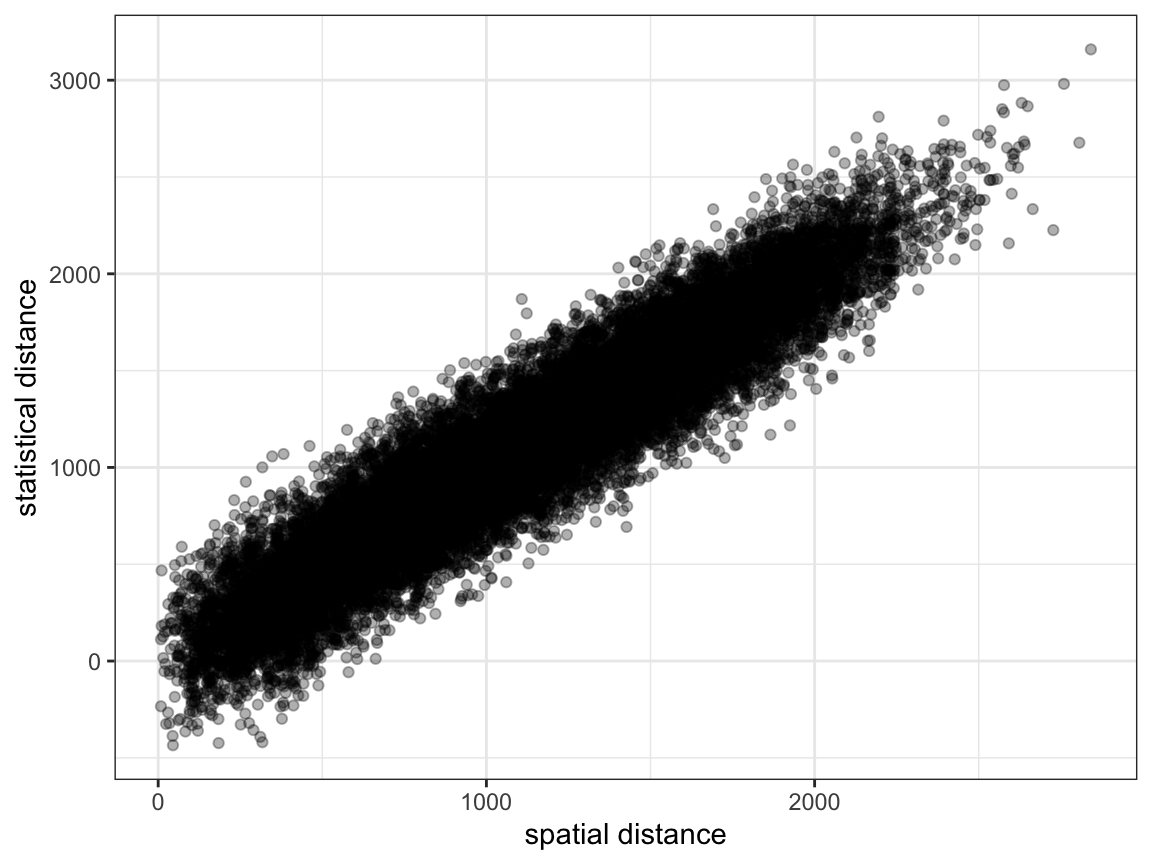
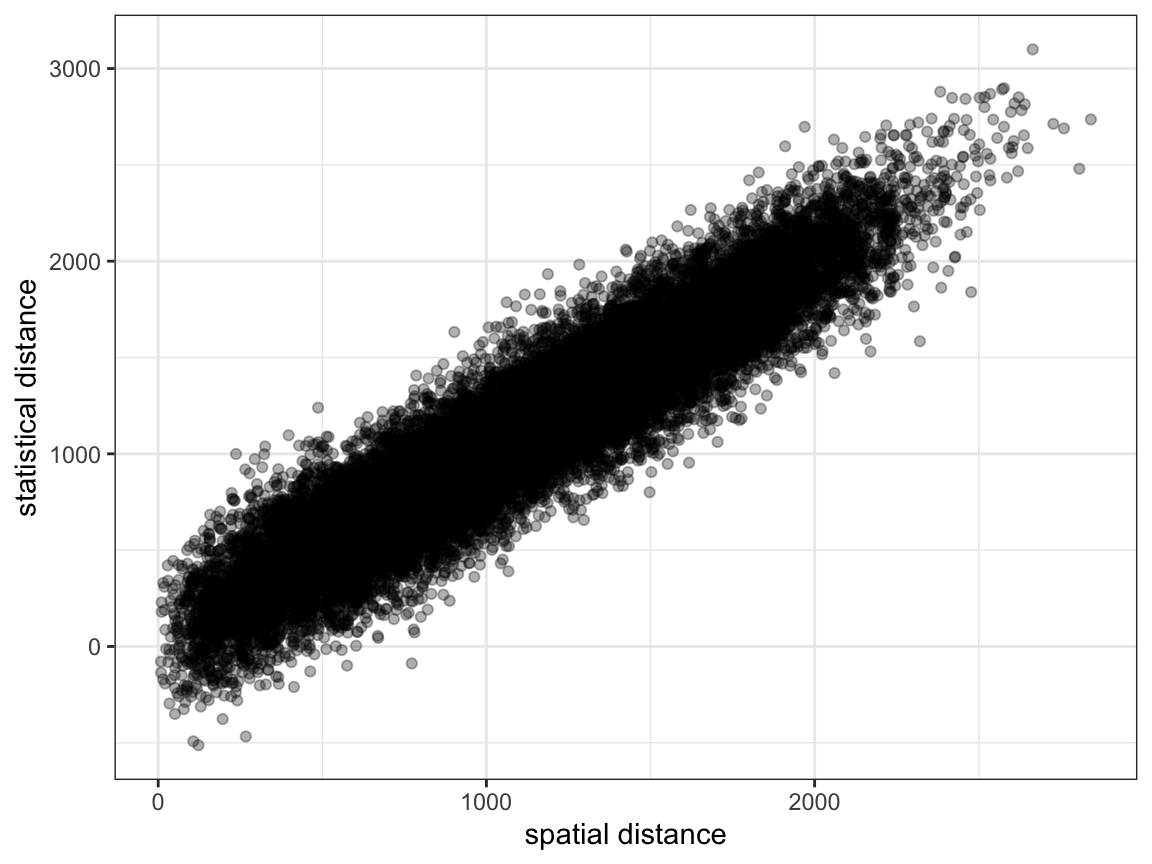
fixed bug in get_barrier_intersect() that caused error when intersecting barrier multiple times. Added test to check for this. Some more assert() checks on plotting scripts

diff --git a/docs/articles/range_limited_analysis.html b/docs/articles/range_limited_analysis.html
@@ -82,9 +82,9 @@
       <h1 data-toc-skip>Range-limited analysis</h1>
                         <h4 class="author">Bob Verity and Keith Fraser</h4>
             
-            <h4 class="date">2020-09-25</h4>
+            <h4 class="date">2020-10-18</h4>
       
-      <small class="dont-index">Source: <a href="https://github.com/username/mrc-ide/blob/master/vignettes/range_limited_analysis.Rmd"><code>vignettes/range_limited_analysis.Rmd</code></a></small>
+      <small class="dont-index">Source: <a href="https://github.com/mrc-ide/PlasmoMAPI/blob/master/vignettes/range_limited_analysis.Rmd"><code>vignettes/range_limited_analysis.Rmd</code></a></small>
       <div class="hidden name"><code>range_limited_analysis.Rmd</code></div>
 
     </div>
@@ -120,17 +120,14 @@ p &lt;- pm_project() %&gt;%
 <span class="co"># plot map with barriers</span>
 <span class="fu"><a href="../reference/plot_map.html">plot_map</a></span>(<span class="no">p</span>, <span class="kw">poly_list</span> <span class="kw">=</span> <span class="no">barrier_list</span>)</pre></body></html></div>
 <p><img src="range_limited_analysis_files/figure-html/unnamed-chunk-4-1.png" width="576"></p>
-<p>The argument <code>max_barrier_range</code> in <code><a href="../reference/get_barrier_intersect.html">get_barrier_intersect()</a></code> allows us to define a spatial distance beyond which the barrier penalty does not apply, for example if <code>max_barrier_range = 100</code> and two sampling locations are either side of the barrier and separated by 110km then the barrier effectively does not exist between these locations. We will use this mtehod to simulate pairwise genetic distances between sampling locations, this time on the [-Inf,Inf] interval rather than the [0,1] interval just for a change.</p>
+<p>The argument <code>max_barrier_range</code> in <code><a href="../reference/get_barrier_intersect.html">get_barrier_intersect()</a></code> allows us to define a spatial distance beyond which the barrier penalty does not apply, for example if <code>max_barrier_range = 100</code> and two sampling locations are either side of the barrier and separated by 101km then the barrier effectively does not exist between these locations. We will use this mtehod to simulate pairwise genetic distances between sampling locations, this time on the [-Inf,Inf] interval rather than the [0,1] interval just for a change.</p>
 <div class="sourceCode" id="cb3"><html><body><pre class="r"><span class="co"># calculate distances, taking into account barriers</span>
-<span class="no">sim_dist</span> <span class="kw">&lt;-</span> <span class="fu"><a href="../reference/get_barrier_intersect.html">get_barrier_intersect</a></span>(<span class="no">node_df</span>$<span class="no">long</span>, <span class="no">node_df</span>$<span class="no">lat</span>,
-                                  <span class="kw">barrier_list</span> <span class="kw">=</span> <span class="no">barrier_list</span>,
-                                  <span class="kw">barrier_penalty</span> <span class="kw">=</span> -<span class="fl">50</span>,
-                                  <span class="kw">barrier_method</span> <span class="kw">=</span> <span class="fl">2</span>,
-                                  <span class="kw">max_barrier_range</span> <span class="kw">=</span> <span class="fl">500</span>)
-
-<span class="co"># add some noise to the data</span>
-<span class="no">sim_dist_noise</span> <span class="kw">&lt;-</span> <span class="no">sim_dist</span> + <span class="fu"><a href="https://rdrr.io/r/stats/Normal.html">rnorm</a></span>(<span class="fu"><a href="https://rdrr.io/r/base/length.html">length</a></span>(<span class="no">sim_dist</span>), <span class="kw">sd</span> <span class="kw">=</span> <span class="fl">2e2</span>)
-<span class="no">genetic_distance</span> <span class="kw">&lt;-</span> <span class="fu"><a href="https://rdrr.io/r/base/matrix.html">as.matrix</a></span>(<span class="fu"><a href="https://rdrr.io/r/stats/dist.html">as.dist</a></span>(<span class="no">sim_dist_noise</span>))</pre></body></html></div>
+<span class="no">genetic_distance</span> <span class="kw">&lt;-</span> <span class="fu"><a href="../reference/get_barrier_intersect.html">get_barrier_intersect</a></span>(<span class="no">node_df</span>$<span class="no">long</span>, <span class="no">node_df</span>$<span class="no">lat</span>,
+                                          <span class="kw">barrier_list</span> <span class="kw">=</span> <span class="no">barrier_list</span>,
+                                          <span class="kw">barrier_penalty</span> <span class="kw">=</span> <span class="fl">0.1</span>,
+                                          <span class="kw">barrier_method</span> <span class="kw">=</span> <span class="fl">2</span>,
+                                          <span class="kw">max_barrier_range</span> <span class="kw">=</span> <span class="fl">500</span>,
+                                          <span class="kw">noise_sd</span> <span class="kw">=</span> <span class="fl">2e2</span>)</pre></body></html></div>
 <p>Create a project, load the data, and look at a simple plot of spatial vs. genetic distance.</p>
 <div class="sourceCode" id="cb4"><html><body><pre class="r"><span class="co"># load data and produce simple scatterplot</span>
 <span class="no">p</span> <span class="kw">&lt;-</span> <span class="fu"><a href="../reference/load_data.html">load_data</a></span>(<span class="no">p</span>, <span class="no">genetic_distance</span>)

diff --git a/docs/index.html b/docs/index.html
@@ -92,7 +92,7 @@
 <a href="#version-010" class="anchor"></a>Version 0.1.0</h3>
 <hr>
 <p>PlasmoMAPI is an R package for converting pairwise spatial data (i.e. statistical values calculated between different sampling locations) into maps that show areas of high or low connectivity*. These maps can be useful for 1) visualising data, as an alternative to simple networks of nodes and edges which get confusing when when the number of nodes is large, and 2) statistical testing, because it can be very difficult to detect subtle patterns when looking at raw data. PlasmoMAPI is a spinoff from the original MAPI method (REF) by Sylvian Piry and co-authors, differing in a number of key assumptions and also being tailored toward analysis of malaria (Plasmodium) data.</p>
-<p><img src="https://raw.githubusercontent.com/mrc-ide/PlasmoMAPI/master/R_ignore/web_images/main_page.pdf" height="1000px" width="800px"></p>
+<p><img src="https://raw.githubusercontent.com/mrc-ide/PlasmoMAPI/master/R_ignore/web_images/main_page.png" height="800px" width="800px"></p>
 <p>If you’d like to see an example analysis from start to finish, check out the</p>
 <ul>
 <li>for PlasmoMAPI to give meaningful results it must be that pairwise data are connected in some way to a spatial process. A good example would be pairwise genetic distances calculated between samples extracted at different points in space.</li>
@@ -105,9 +105,9 @@
     <div class="links">
 <h2>Links</h2>
 <ul class="list-unstyled">
-<li>Browse source code at <br><a href="https://github.com/username/mrc-ide/">https://github.com/username/mrc-ide/</a>
+<li>Browse source code at <br><a href="https://github.com/mrc-ide/PlasmoMAPI/">https://github.com/mrc-ide/PlasmoMAPI/</a>
 </li>
-<li>Report a bug at <br><a href="https://github.com/username/mrc-ide/PlasmoMAPI/issues">https://github.com/username/mrc-ide/PlasmoMAPI/issues</a>
+<li>Report a bug at <br><a href="https://github.com/mrc-ide/PlasmoMAPI/issues">https://github.com/mrc-ide/PlasmoMAPI/issues</a>
 </li>
 </ul>
 </div>

diff --git a/docs/reference/get_barrier_intersect.html b/docs/reference/get_barrier_intersect.html
@@ -125,7 +125,7 @@
   <div class="col-md-9 contents">
     <div class="page-header">
     <h1>Get distance between points taking into account barriers</h1>
-    <small class="dont-index">Source: <a href='https://github.com/username/mrc-ide/blob/master/R/utils.R'><code>R/utils.R</code></a></small>
+    <small class="dont-index">Source: <a href='https://github.com/mrc-ide/PlasmoMAPI/blob/master/R/utils.R'><code>R/utils.R</code></a></small>
     <div class="hidden name"><code>get_barrier_intersect.Rd</code></div>
     </div>
 
@@ -145,6 +145,7 @@
   <span class='kw'>barrier_method</span> <span class='kw'>=</span> <span class='fl'>1</span>,
   <span class='kw'>max_barrier_range</span> <span class='kw'>=</span> <span class='fl'>Inf</span>,
   <span class='kw'>eccentricity</span> <span class='kw'>=</span> <span class='fl'>0.9</span>,
+  <span class='kw'>noise_sd</span> <span class='kw'>=</span> <span class='fl'>0</span>,
   <span class='kw'>n_ell</span> <span class='kw'>=</span> <span class='fl'>20</span>
 )</pre>
 
@@ -196,6 +197,11 @@ apply locally.</p></td>
       <th>eccentricity</th>
       <td><p>eccentricity of ellipses (only used under
 <code>barrier_method = 3</code>).</p></td>
+    </tr>
+    <tr>
+      <th>noise_sd</th>
+      <td><p>standard deviation of Gaussian noise added to all distances
+(after the application of barriers).</p></td>
     </tr>
     <tr>
       <th>n_ell</th>

diff --git a/docs/articles/basic_tutorial.html b/docs/articles/basic_tutorial.html
@@ -85,9 +85,9 @@
       <h1 data-toc-skip>Basic tutorial</h1>
                         <h4 class="author">Bob Verity and Keith Fraser</h4>
             
-            <h4 class="date">2020-09-25</h4>
+            <h4 class="date">2020-10-18</h4>
       
-      <small class="dont-index">Source: <a href="https://github.com/username/mrc-ide/blob/master/vignettes/basic_tutorial.Rmd"><code>vignettes/basic_tutorial.Rmd</code></a></small>
+      <small class="dont-index">Source: <a href="https://github.com/mrc-ide/PlasmoMAPI/blob/master/vignettes/basic_tutorial.Rmd"><code>vignettes/basic_tutorial.Rmd</code></a></small>
       <div class="hidden name"><code>basic_tutorial.Rmd</code></div>
 
     </div>

diff --git a/docs/articles/installation.html b/docs/articles/installation.html
@@ -82,9 +82,9 @@
       <h1 data-toc-skip>Installation</h1>
                         <h4 class="author">Bob Verity and Keith Fraser</h4>
             
-            <h4 class="date">2020-09-25</h4>
+            <h4 class="date">2020-10-18</h4>
       
-      <small class="dont-index">Source: <a href="https://github.com/username/mrc-ide/blob/master/vignettes/installation.Rmd"><code>vignettes/installation.Rmd</code></a></small>
+      <small class="dont-index">Source: <a href="https://github.com/mrc-ide/PlasmoMAPI/blob/master/vignettes/installation.Rmd"><code>vignettes/installation.Rmd</code></a></small>
       <div class="hidden name"><code>installation.Rmd</code></div>
 
     </div>

diff --git a/docs/reference/sim_falciparum.html b/docs/reference/sim_falciparum.html
@@ -122,7 +122,7 @@
   <div class="col-md-9 contents">
     <div class="page-header">
     <h1>Simulate genetic data from simple P. falciparum model</h1>
-    <small class="dont-index">Source: <a href='https://github.com/username/mrc-ide/blob/master/R/simulation.R'><code>R/simulation.R</code></a></small>
+    <small class="dont-index">Source: <a href='https://github.com/mrc-ide/PlasmoMAPI/blob/master/R/simulation.R'><code>R/simulation.R</code></a></small>
     <div class="hidden name"><code>sim_falciparum.Rd</code></div>
     </div>
 

diff --git a/docs/reference/lonlat_to_bearing.html b/docs/reference/lonlat_to_bearing.html
@@ -123,7 +123,7 @@
   <div class="col-md-9 contents">
     <div class="page-header">
     <h1>Calculate great circle distance and bearing between coordinates</h1>
-    <small class="dont-index">Source: <a href='https://github.com/username/mrc-ide/blob/master/R/utils.R'><code>R/utils.R</code></a></small>
+    <small class="dont-index">Source: <a href='https://github.com/mrc-ide/PlasmoMAPI/blob/master/R/utils.R'><code>R/utils.R</code></a></small>
     <div class="hidden name"><code>lonlat_to_bearing.Rd</code></div>
     </div>
 

diff --git a/docs/reference/get_ellipse.html b/docs/reference/get_ellipse.html
@@ -121,7 +121,7 @@
   <div class="col-md-9 contents">
     <div class="page-header">
     <h1>Calculate ellipse polygon coordinates from foci and eccentricity</h1>
-    <small class="dont-index">Source: <a href='https://github.com/username/mrc-ide/blob/master/R/utils.R'><code>R/utils.R</code></a></small>
+    <small class="dont-index">Source: <a href='https://github.com/mrc-ide/PlasmoMAPI/blob/master/R/utils.R'><code>R/utils.R</code></a></small>
     <div class="hidden name"><code>get_ellipse.Rd</code></div>
     </div>
 

diff --git a/docs/reference/is.pm_project.html b/docs/reference/is.pm_project.html
@@ -121,7 +121,7 @@
   <div class="col-md-9 contents">
     <div class="page-header">
     <h1>Determine if object is of class pm_project</h1>
-    <small class="dont-index">Source: <a href='https://github.com/username/mrc-ide/blob/master/R/pm_project.R'><code>R/pm_project.R</code></a></small>
+    <small class="dont-index">Source: <a href='https://github.com/mrc-ide/PlasmoMAPI/blob/master/R/pm_project.R'><code>R/pm_project.R</code></a></small>
     <div class="hidden name"><code>is.pm_project.Rd</code></div>
     </div>
 

diff --git a/docs/reference/check_PlasmoMAPI_loaded.html b/docs/reference/check_PlasmoMAPI_loaded.html
@@ -122,7 +122,7 @@
   <div class="col-md-9 contents">
     <div class="page-header">
     <h1>Check that PlasmoMAPI package has loaded successfully</h1>
-    <small class="dont-index">Source: <a href='https://github.com/username/mrc-ide/blob/master/R/main.R'><code>R/main.R</code></a></small>
+    <small class="dont-index">Source: <a href='https://github.com/mrc-ide/PlasmoMAPI/blob/master/R/main.R'><code>R/main.R</code></a></small>
     <div class="hidden name"><code>check_PlasmoMAPI_loaded.Rd</code></div>
     </div>
 

diff --git a/docs/reference/load_coords.html b/docs/reference/load_coords.html
@@ -123,7 +123,7 @@
   <div class="col-md-9 contents">
     <div class="page-header">
     <h1>Load coordinates of sampling locations into PlasmoMAPI project</h1>
-    <small class="dont-index">Source: <a href='https://github.com/username/mrc-ide/blob/master/R/main.R'><code>R/main.R</code></a></small>
+    <small class="dont-index">Source: <a href='https://github.com/mrc-ide/PlasmoMAPI/blob/master/R/main.R'><code>R/main.R</code></a></small>
     <div class="hidden name"><code>load_coords.Rd</code></div>
     </div>
 

diff --git a/docs/reference/get_spatial_distance.html b/docs/reference/get_spatial_distance.html
@@ -123,7 +123,7 @@
   <div class="col-md-9 contents">
     <div class="page-header">
     <h1>Get great circle distance between spatial points</h1>
-    <small class="dont-index">Source: <a href='https://github.com/username/mrc-ide/blob/master/R/utils.R'><code>R/utils.R</code></a></small>
+    <small class="dont-index">Source: <a href='https://github.com/mrc-ide/PlasmoMAPI/blob/master/R/utils.R'><code>R/utils.R</code></a></small>
     <div class="hidden name"><code>get_spatial_distance.Rd</code></div>
     </div>
 
